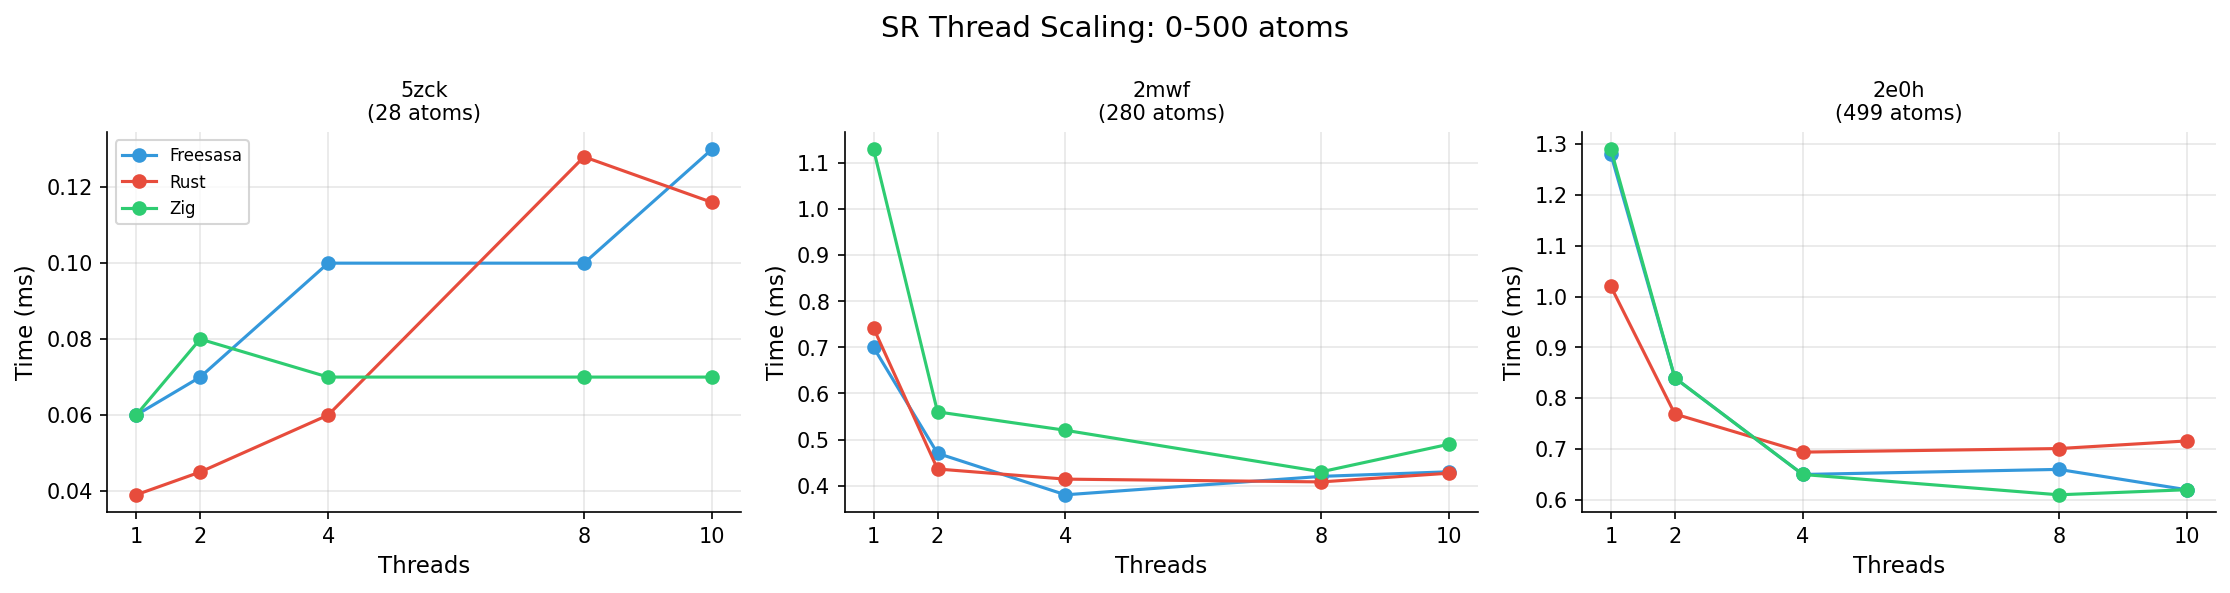
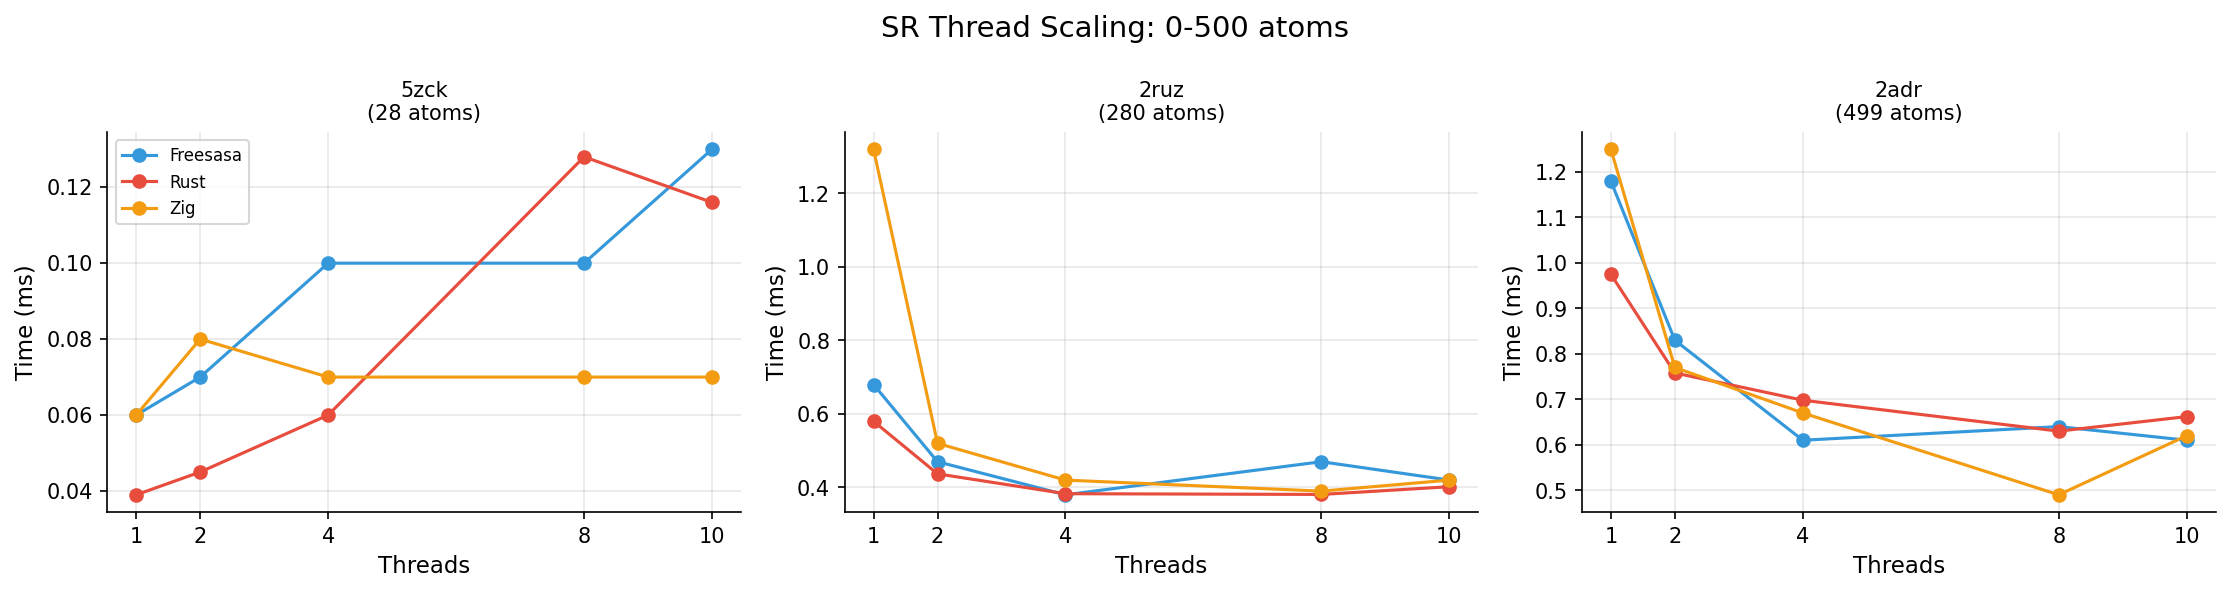
style: Change Zig color from green to orange in benchmark plots

diff --git a/benchmarks/scripts/analyze.py b/benchmarks/scripts/analyze.py
@@ -255,7 +255,7 @@ def export_csv():
 def _plot_scatter(df_algo: pl.DataFrame, algo: str, ax):
     """Plot scatter for a single algorithm."""
     df_sampled = df_algo.sample(n=min(5000, df_algo.height), seed=42)
-    colors = {"zig": "#2ecc71", "freesasa": "#3498db", "rust": "#e74c3c"}
+    colors = {"zig": "#f39c12", "freesasa": "#3498db", "rust": "#e74c3c"}
 
     for tool in sorted(df_sampled["tool"].unique().to_list()):
         df_tool = df_sampled.filter(pl.col("tool") == tool)
@@ -333,7 +333,7 @@ def scatter():
 
 def _plot_threads(df_algo: pl.DataFrame, algo: str, ax):
     """Plot thread scaling for a single algorithm."""
-    colors = {"zig": "#2ecc71", "freesasa": "#3498db", "rust": "#e74c3c"}
+    colors = {"zig": "#f39c12", "freesasa": "#3498db", "rust": "#e74c3c"}
 
     scaling = (
         df_algo.group_by(["tool", "threads"])
@@ -702,7 +702,7 @@ def samples():
     plot_dir = PLOTS_DIR / "samples"
     plot_dir.mkdir(parents=True, exist_ok=True)
 
-    colors = {"zig": "#2ecc71", "freesasa": "#3498db", "rust": "#e74c3c"}
+    colors = {"zig": "#f39c12", "freesasa": "#3498db", "rust": "#e74c3c"}
     bin_order = [b[2] for b in BINS]
 
     # Get thread counts from data
@@ -980,7 +980,7 @@ def efficiency():
     # Summary by size bin and tool
     thread_counts = sorted(df_eff["threads"].unique().to_list())
     tools = ["zig", "freesasa", "rust"]
-    colors = {"zig": "#2ecc71", "freesasa": "#3498db", "rust": "#e74c3c"}
+    colors = {"zig": "#f39c12", "freesasa": "#3498db", "rust": "#e74c3c"}
 
     # Table: efficiency by size bin (t=10)
     t_target = 10

diff --git a/benchmarks/scripts/analyze_batch.py b/benchmarks/scripts/analyze_batch.py
@@ -197,8 +197,8 @@ def plot():
     color_map = {
         ("rust", "f32"): "#e74c3c",
         ("rust", "f64"): "#e74c3c",
-        ("zig", "f32"): "#27ae60",
-        ("zig", "f64"): "#2ecc71",
+        ("zig", "f32"): "#f39c12",
+        ("zig", "f64"): "#e67e22",
     }
 
     for row in stats.sort(["tool", "precision"], descending=[True, False]).iter_rows(
